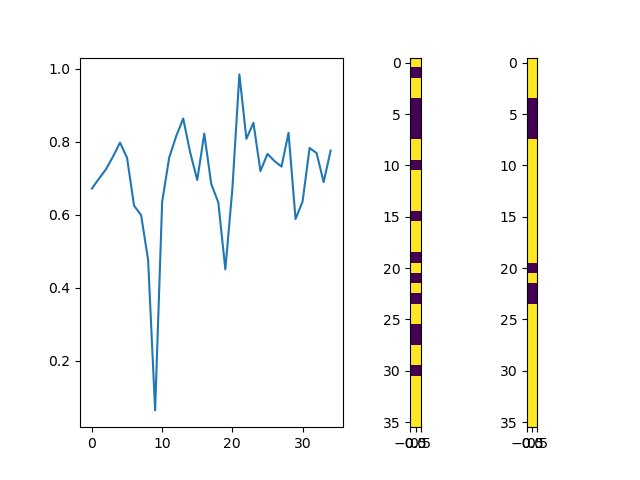
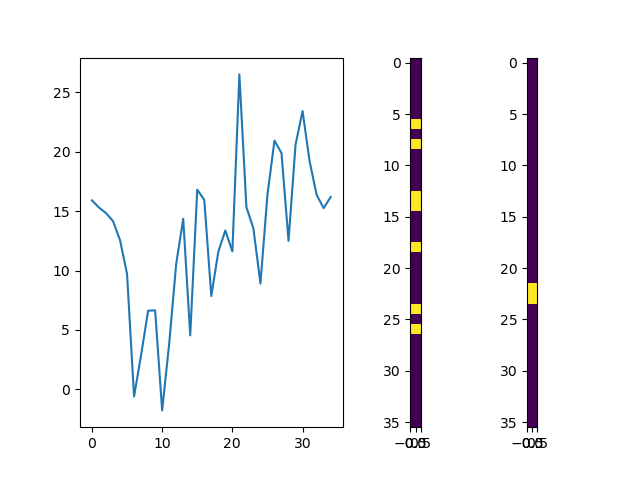
pretty good results, but questionable for low amplitudes.

diff --git a/1d/peaks_to_slot/peaks_to_slots_model.py b/1d/peaks_to_slot/peaks_to_slots_model.py
@@ -10,31 +10,31 @@ class LWAPredictionModel(tf.keras.Model):
 
         self.adam_optimizer = tf.keras.optimizers.Adam(learning_rate=lr)
         self.batch_size = 128
-        self.epochs = 100
+        self.epochs = 50
 
         self.dense_layers = tf.keras.Sequential()
         self.dense_layers.add(Flatten())
         # self.dense_layers.add(Dense(1000, activation = 'relu'))
         # self.dense_layers.add(Dense(800, activation = 'relu'))
         self.dense_layers.add(Dense(1000))
-        # self.dense_layers.add(LeakyReLU(0.2))
-        self.dense_layers.add(ReLU())
+        self.dense_layers.add(LeakyReLU(0.2))
+        # self.dense_layers.add(ReLU())
         self.dense_layers.add(Dense(1000))
-        # self.dense_layers.add(LeakyReLU(0.2))
-        self.dense_layers.add(ReLU())
+        self.dense_layers.add(LeakyReLU(0.2))
+        # self.dense_layers.add(ReLU())
         self.dense_layers.add(Dense(1000))
-        # self.dense_layers.add(LeakyReLU(0.2))
-        self.dense_layers.add(ReLU())
+        self.dense_layers.add(LeakyReLU(0.2))
+        # self.dense_layers.add(ReLU())
         self.dense_layers.add(Dense(1000))
-        # self.dense_layers.add(LeakyReLU(0.2))
-        self.dense_layers.add(ReLU())
+        self.dense_layers.add(LeakyReLU(0.2))
+        # self.dense_layers.add(ReLU())
         self.dense_layers.add(Dense(1000))
-        # self.dense_layers.add(LeakyReLU(0.2))
-        self.dense_layers.add(ReLU())
+        self.dense_layers.add(LeakyReLU(0.2))
+        # self.dense_layers.add(ReLU())
         self.dense_layers.add(Dense(1000))
-        # self.dense_layers.add(LeakyReLU(0.2))
+        self.dense_layers.add(LeakyReLU(0.2))
         # self.dense_layers.add(Dropout(0.1))
-        self.dense_layers.add(ReLU())
+        # self.dense_layers.add(ReLU())
         # self.dense_layers.add(Conv1DTranspose(256, 3, 1, 'same',activation='relu'))
         # self.dense_layers.add(Conv1DTranspose(128, 4, 3, 'same',activation='relu'))
         # self.dense_layers.add(Conv1DTranspose(64, 5, 1, 'same',activation='relu'))

diff --git a/1d/peaks_to_slot/preprocess.py b/1d/peaks_to_slot/preprocess.py
@@ -27,10 +27,10 @@ def import_data(timestamp_list):
             sorted_x = np.array([20*np.log10(results[i:i + 361,1]) for i in points[:-1]])
             peaks = sorted_x[:,floquet_back + floquet_forward]
             # max = peaks.max(axis=1)[:,None]
-            normalized = peaks / np.max(peaks,axis=0)
+            # normalized = peaks / np.max(peaks,axis=0)
             # peaks_list.append(normalized)
-            peaks_list.append(normalized)
-            # peaks_list.append(peaks)
+            # peaks_list.append(normalized)
+            peaks_list.append(peaks)
             # max_list.append(np.concatenate([max,max,max,max,max,max],axis=1))
 
 
